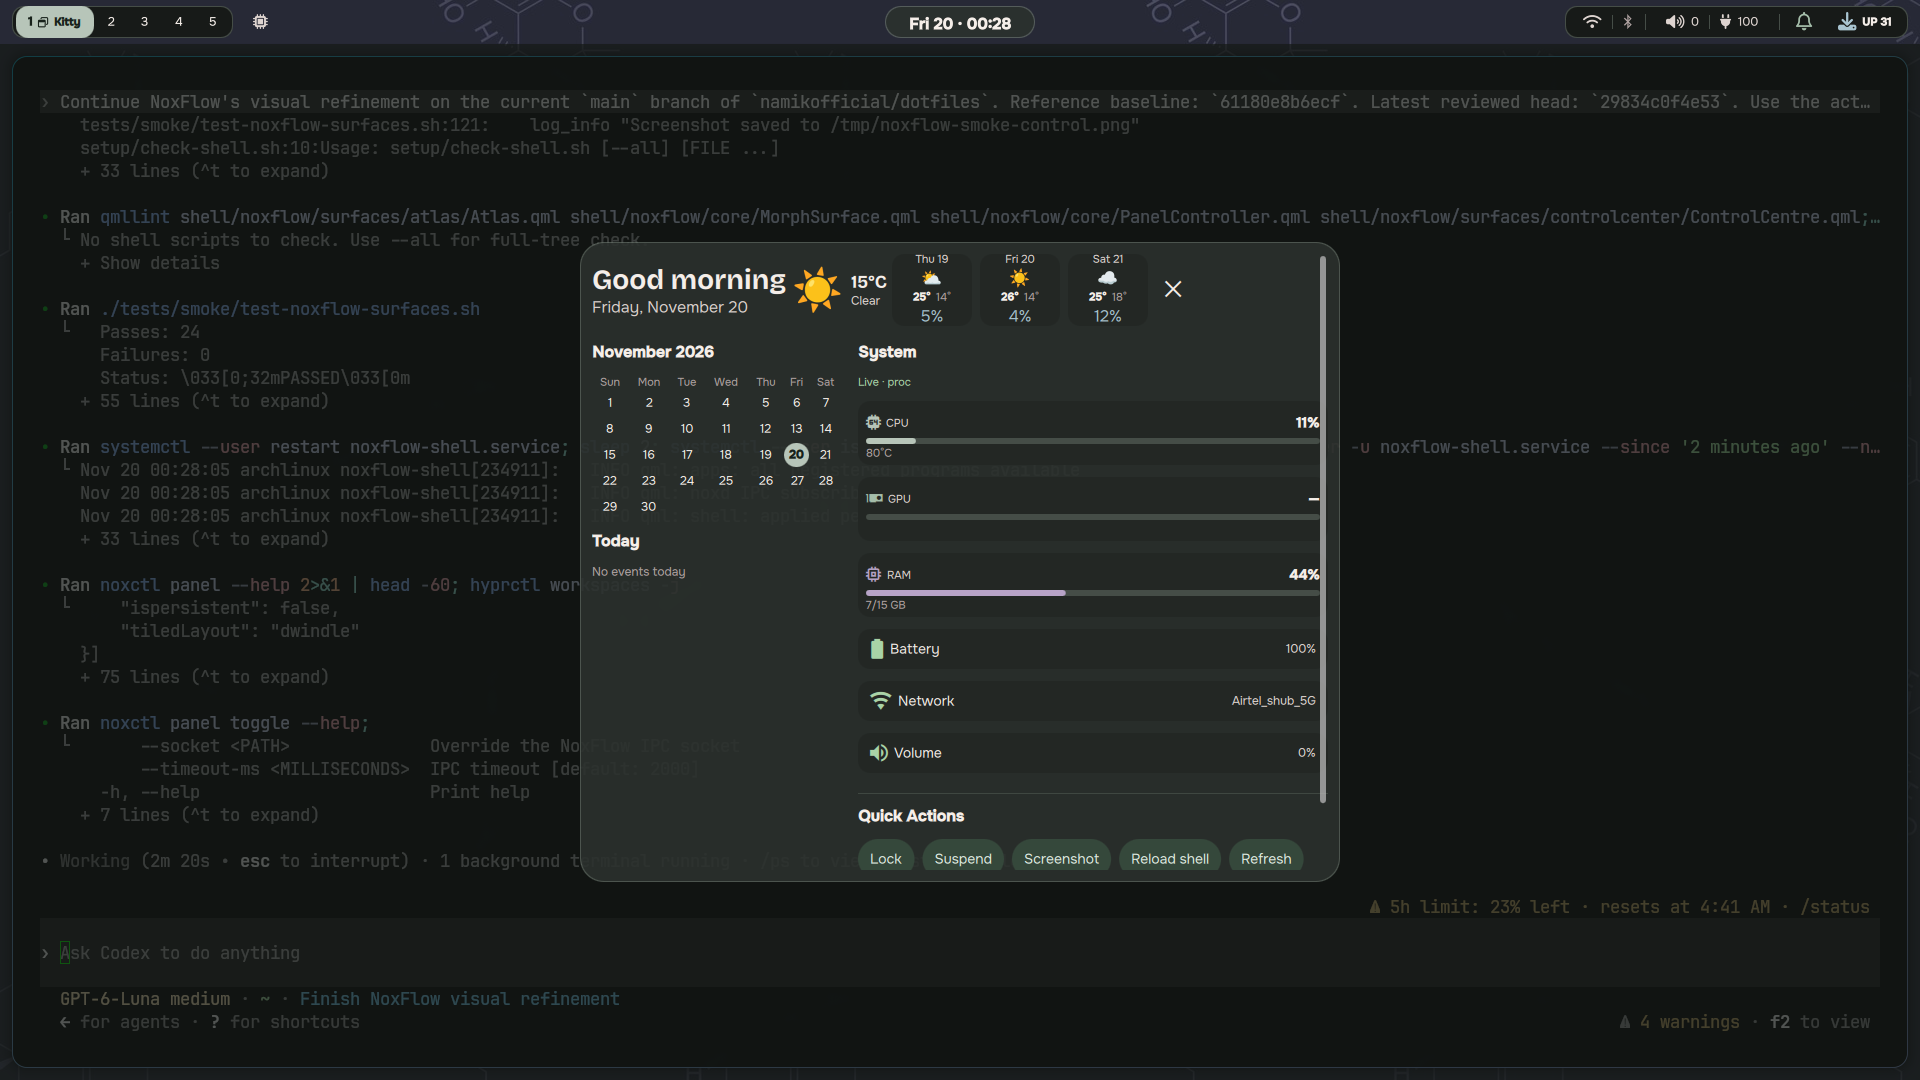
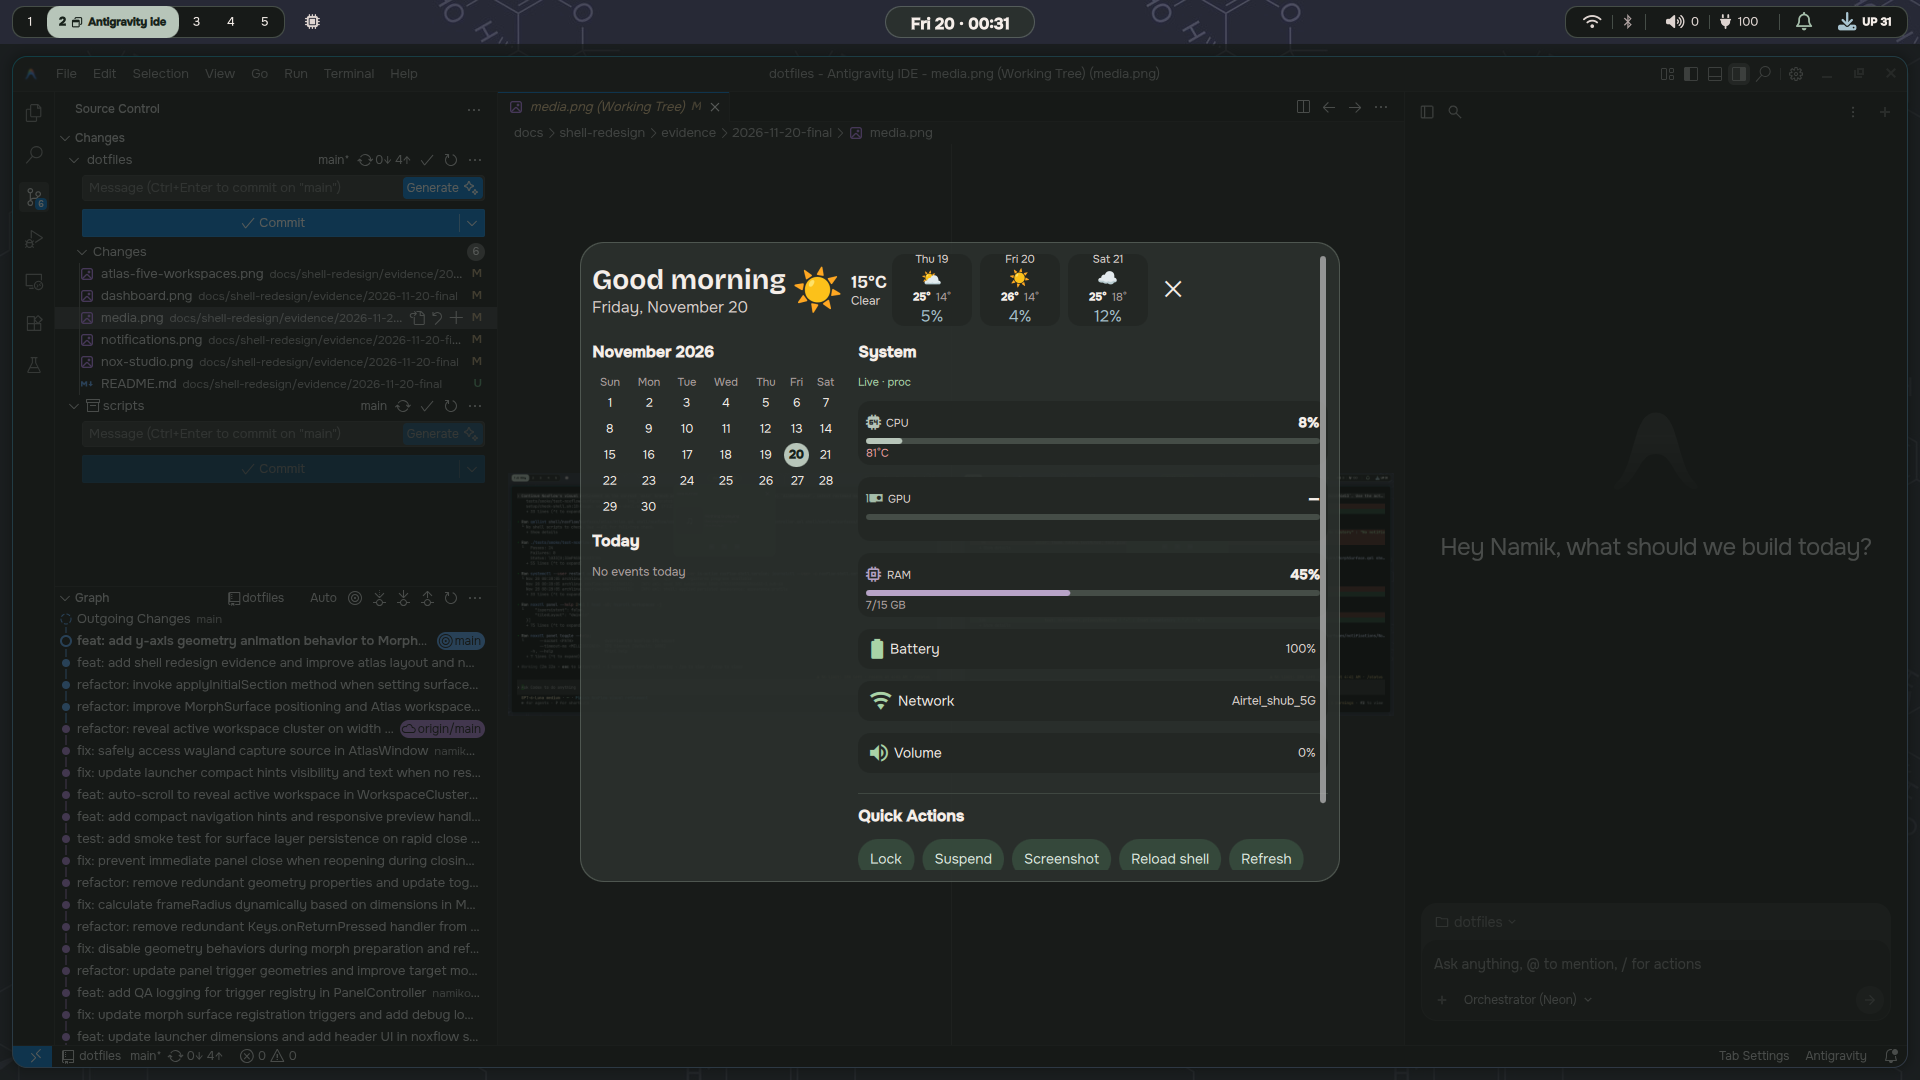
docs: add final shell redesign evidence captures and documentation

diff --git a/docs/shell-redesign/evidence/2026-11-20-final/README.md b/docs/shell-redesign/evidence/2026-11-20-final/README.md
@@ -1,0 +1,11 @@
+# NoxFlow finishing pass — 2026-11-20
+
+Live full-display captures from the running Hyprland session at 1920×1080, scale 1.0. Atlas showed the five workspaces present at capture time; its adaptive layout distributes them as three cards then two, with live thumbnails and current-workspace selection visible.
+
+- `atlas-five-workspaces.png` — final Atlas layout with five active workspaces.
+- `dashboard.png` — Dashboard in its current system and calendar state.
+- `media.png` — Media surface with no active player.
+- `notifications.png` — empty Notifications state.
+- `nox-studio.png` — Nox Studio theme profile section.
+
+Captures retain the real desktop and background windows. Each image was visually inspected after capture.
